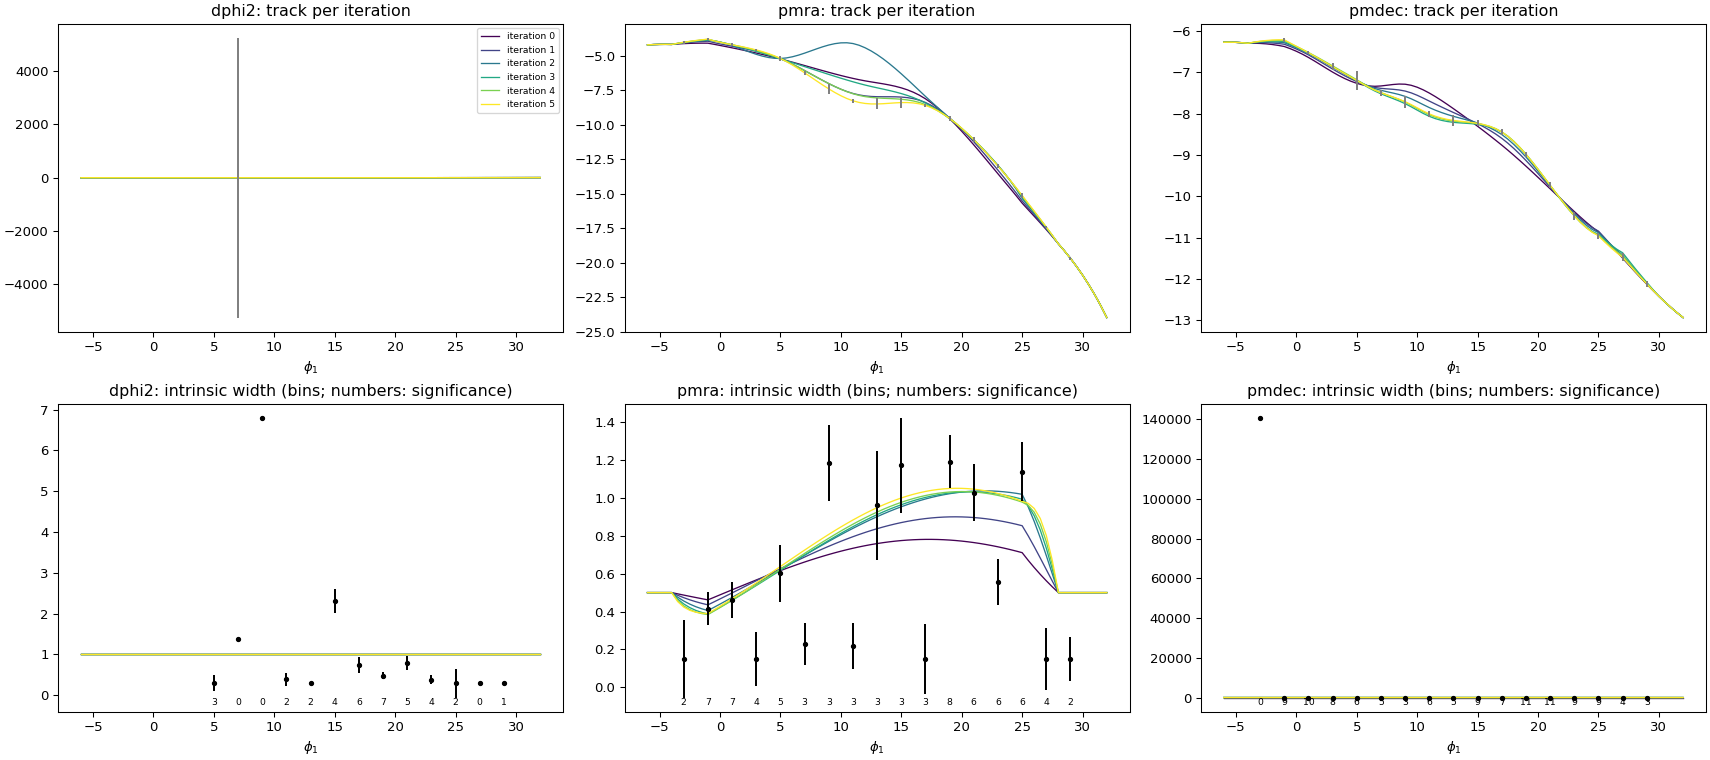
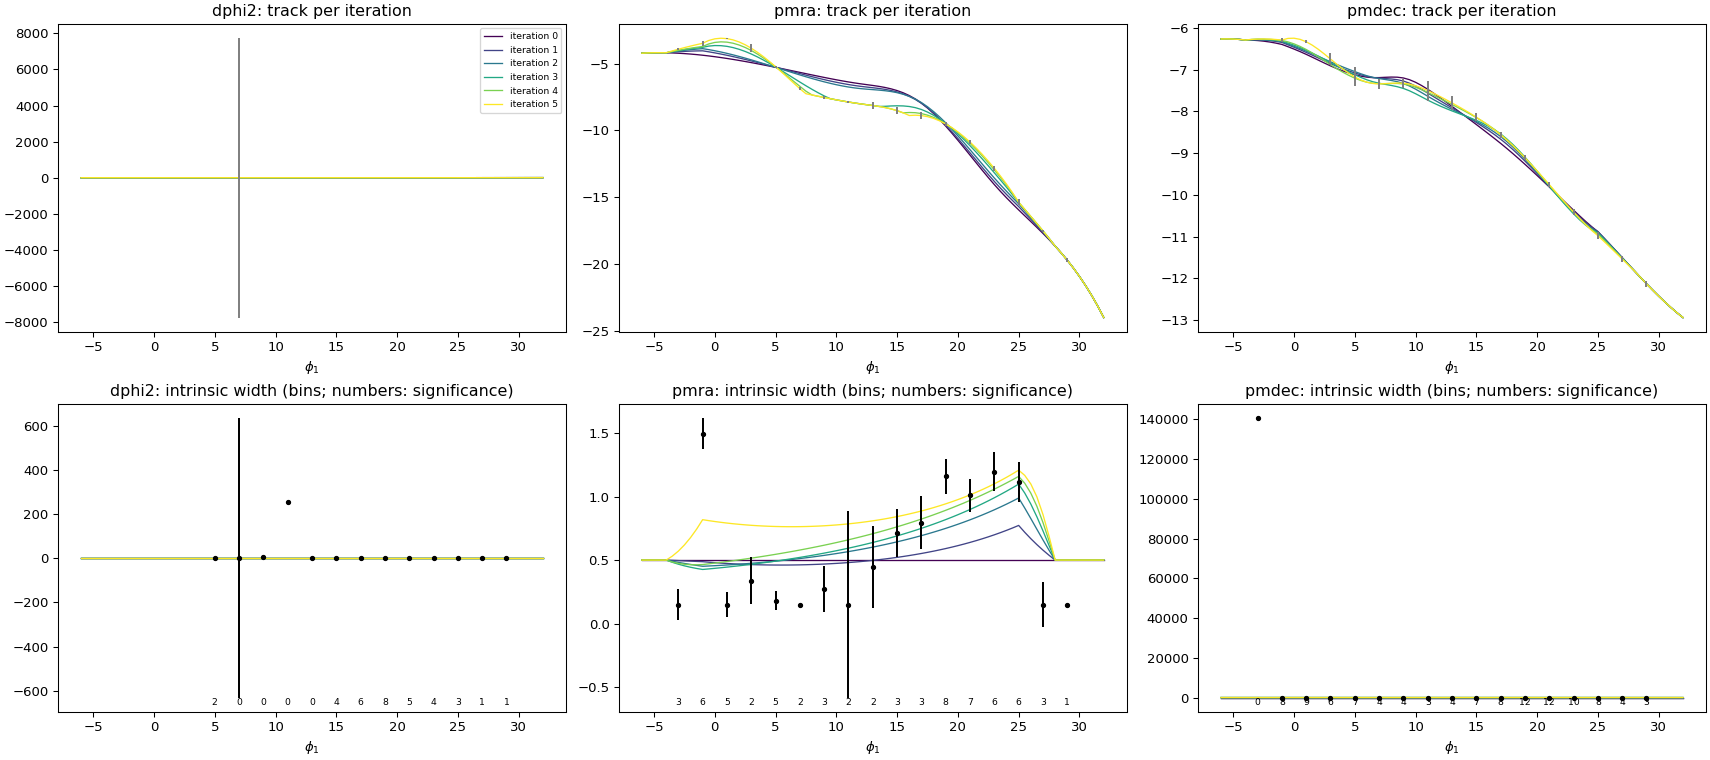
stream_masks.py: fixed +-2 deg sky window for the PM panels (centred on the marked sky track), PM backgrounds 4-14 deg off; tracks anchored to the start; borders interpolated

diff --git a/bin/streams/stream_masks.py b/bin/streams/stream_masks.py
@@ -4,8 +4,9 @@
 Procedure (docs/reviews/masks_fable_codex_20261023.md): stars = footprint (G < 20, parallax cut, GC masks) inside the isochrone CMD
 mask (bin/streams/gaia_cmd_mask.cmd_pass, k = 2). Alternating 1-D unbinned fits per phi1 bin, for q in (pmdec, pmra*, dphi2):
   - select by the OTHER two masks at k_iter = 2.5 (per-star width sqrt(s_int^2 + e_i^2));
-  - PMs: residual v = q - track_q(phi1) of stars in the sky window; background shape = histogram of the residuals of the same
-    selection in sky bands 4-12 deg off the track (upper-branch window excluded); model (1 - f) B(v) + f N(v; mu + beta (phi1 - c),
+  - PMs: residual v = q - track_q(phi1) of stars in the sky window |dphi2| < 2 (fixed, user 2026-10-23: the on-sky signal is too
+    complex for a fitted border; |dphi2| < 2 adopted 2026-10-23); background shape = residuals of the same selection at 4 < |dphi2 - centre| < 14; the window is centred on the
+    starting (user-marked) sky track, ~0 at phi1 < 20 rising to +3 at 28; model (1 - f) B(v) + f N(v; mu + beta (phi1 - c),
     s^2 + e_i^2) on |v| < 4 mas/yr;
   - sky: residual v = dphi2 - track(phi1) of stars passing both PM masks, |v| < 8 deg; model f1 N(mu1, s1) [+ f2 N(mu2, s2) for the
     upper branch at phi1 14-21] + (1 - f1 - f2) quadratic background (normalised on the window); phi1 >= 4 only (footprint edge);
@@ -18,7 +19,9 @@ quadratic in phi1 over the significant range (previous width kept outside). A GC
 all centres move by < 0.1 of their errors.
 Initial tracks: the user-marked sequences (gaia_xsel_marked.MARK); initial widths 0.5 mas/yr, 1 deg.
 Empirical (completeness) borders: after convergence, per bin the central interval holding 95 per cent of the background-subtracted
-excess in a wide window (completeness_borders), smoothed by weighted quadratics in phi1 (bins >= 4 sigma); drawn in orange and stored
+excess in a wide window (completeness_borders), 3-bin running mean, linearly interpolated in phi1 (bins >= 3 sigma);
+tracks are anchored within 1.5 / 1.0 mas/yr and 2 deg of the starting (marked) tracks (with the wide |dphi2| < 5 window the pmra
+iteration otherwise ran onto field structure at phi1 5-17); drawn in orange and stored
 as lo95 / hi95 offsets from the track (the Gaussian core underestimates the borders where the stream has wings).
 Outputs: results/plot_data/stream_masks.json (tracks and widths on a phi1 grid, per-bin fit tables, iteration history),
 plots/stream_masks_fits.png (per-bin centres/widths with errors per iteration), plots/stream_masks_xsel.png (cross-selection with the
@@ -63,10 +66,24 @@ def ev(T, q, u, key="c"):
     return np.interp(u, GRID, T[q][key])
 
 
-def other_masks(D, T, q, k):
+SKY_HALF, OFF_SKY = 2.0, (4.0, 14.0)    # user: sky selection for the other panels = |dphi2| < 2 (was 5; on-sky signal too complex for a
+                                         # fitted border); PM backgrounds from 6 < |dphi2| < 14
+
+
+def SKYC(u):
+    """centre of the fixed sky window: the starting (user-marked lower-branch) track -- ~0 at phi1 < 20, rising to +3 at phi1 28
+    where the stream bends steeply in the chord frame (members' dphi2 +1.0..+1.6 at 24-27)."""
+    return np.interp(u, GRID, SKY0)
+
+
+def other_masks(D, T, q, k, sky=True):
     u = D["phi1"]; m = np.ones(len(u), bool)
     for p, col, err in (("pmra", "pmra", "pmra_error"), ("pmdec", "pmdec", "pmdec_error"), ("dphi2", "dphi2", None)):
         if p == q:
+            continue
+        if p == "dphi2":
+            if sky:
+                m &= np.abs(D["dphi2"]-SKYC(u)) < SKY_HALF
             continue
         e2 = D[err]**2 if err else 0.
         m &= np.abs(D[col]-ev(T, p, u)) < k*np.sqrt(ev(T, p, u, "s")**2+e2)
@@ -188,7 +205,7 @@ w95 = first w with F >= frac (clipping the excess to positive values made noise 
     u, x = D["phi1"], D["dphi2"]; out = {}; Wd = dict(pmdec=4., pmra=6., dphi2=8.)
     for q in ("dphi2", "pmra", "pmdec"):
         W = Wd[q]; E = np.linspace(-W, W, int(2*W/0.1)+1); cc = 0.5*(E[1:]+E[:-1]); rows = []
-        sel = other_masks(D, T, q, K_ITER) if q == "dphi2" else other_masks(D, {**T, "dphi2": dict(c=T["dphi2"]["c"], s=np.full(GRID.size, 1e6))}, q, K_ITER)
+        sel = other_masks(D, T, q, K_ITER) if q == "dphi2" else other_masks(D, T, q, K_ITER, sky=False)
         for a0, a1 in BINS:
             c = 0.5*(a0+a1); kb = sel & (u >= a0) & (u < a1)
             vu = np.nan
@@ -199,7 +216,7 @@ w95 = first w with F >= frac (clipping the excess to positive values made noise 
                 vu = tu(np.array([c]))[0]-ev(T, q, np.array([c]))[0]; wing = (np.abs(cc) > 4) & ~(np.abs(cc-vu) < 2 if np.isfinite(vu) else False)
                 B = np.clip(np.polyval(np.polyfit(cc[wing], h[wing], 2), cc), 0, None)
             else:
-                dsky = x-ev(T, "dphi2", u); on = kb & (np.abs(dsky) < K_ITER*ev(T, "dphi2", u, "s")); off = kb & (np.abs(dsky) > 4) & (np.abs(dsky) < 12) & ~(np.abs(x-tu(u)) < 2)
+                dsky = x-ev(T, "dphi2", u); on = kb & (np.abs(x-SKYC(u)) < SKY_HALF); off = kb & (np.abs(x-SKYC(u)) > OFF_SKY[0]) & (np.abs(x-SKYC(u)) < OFF_SKY[1])
                 h = np.histogram((D[q]-ev(T, q, u))[on], E)[0].astype(float); hf = np.histogram((D[q]-ev(T, q, u))[off], E)[0].astype(float)
                 wing = np.abs(cc) > W-2; B = hf*h[wing].sum()/max(hf[wing].sum(), 1)
             fit = [r for r in TAB[q] if abs(r["c"]-c) < 0.1]
@@ -220,23 +237,23 @@ w95 = first w with F >= frac (clipping the excess to positive values made noise 
 
 
 def main():
-    D, T, up = load_data(); u, x = D["phi1"], D["dphi2"]
+    D, T, up = load_data(); u, x = D["phi1"], D["dphi2"]; global SKY0; SKY0 = T["dphi2"]["c"].copy()
     print(f"{len(u)} stars in the CMD mask", flush=True)
     tu = lambda p: np.interp(p, up[:, 0], up[:, 1], left=np.nan, right=np.nan)
-    hist, tables = [], {}
+    hist, tables = [], {}; T0 = {q: T[q]["c"].copy() for q in T}; ANCHOR = dict(pmra=1.5, pmdec=1.0, dphi2=2.0)   # max departure from the start
     for it in range(NIT):
         moved = []
         for q in ("pmdec", "pmra", "dphi2"):
             if q == "dphi2":
                 sel = other_masks(D, T, q, K_ITER)
             else:                                                     # PM fits: other-PM mask only; the sky window/off bands are applied below
-                sel = other_masks(D, {**T, "dphi2": dict(c=T["dphi2"]["c"], s=np.full(GRID.size, 1e6))}, q, K_ITER)
+                sel = other_masks(D, T, q, K_ITER, sky=False)
             rows = []
             for a0, a1 in BINS:
                 c = 0.5*(a0+a1); kb = sel & (u >= a0) & (u < a1)
                 if q in ("pmra", "pmdec"):
-                    dsky = x-ev(T, "dphi2", u); w_on = np.abs(dsky) < K_ITER*ev(T, "dphi2", u, "s")
-                    offb = (np.abs(dsky) > 4) & (np.abs(dsky) < 12) & ~(np.abs(x-tu(u)) < 2)
+                    w_on = np.abs(x-SKYC(u)) < SKY_HALF
+                    offb = (np.abs(x-SKYC(u)) > OFF_SKY[0]) & (np.abs(x-SKYC(u)) < OFF_SKY[1])
                     v = D[q]-ev(T, q, u); e = D[q+"_error"]
                     r = fit_pm(v[kb & w_on], e[kb & w_on], u[kb & w_on]-c, v[kb & offb])
                 else:
@@ -252,7 +269,7 @@ def main():
             ok = (sig >= SIG_MIN) & np.isfinite(me) & (me > 0) & np.isfinite(se) & (ss > 1.05*FLOOR[q]) & (ss < CAP[q]) & (np.abs(mu) < 1.5*np.maximum(cur_s, 0.5))
             sm = smooth_offset(cs, mu, me, ok); sw = smooth_logwidth(cs, np.log(ss), se/np.maximum(ss, 1e-3), ok, T[q]["s"])
             if sm is not None:
-                T[q]["c"] = T[q]["c"]+DAMP*sm[0](GRID); moved.append(np.max(np.abs(mu[ok])/np.maximum(me[ok], 1e-3)))
+                T[q]["c"] = np.clip(T[q]["c"]+DAMP*sm[0](GRID), T0[q]-ANCHOR[q], T0[q]+ANCHOR[q]); moved.append(np.max(np.abs(mu[ok])/np.maximum(me[ok], 1e-3)))
             if sw is not None:
                 T[q]["s"] = np.clip(np.exp(DAMP*np.log(np.maximum(sw(GRID), 1e-3))+(1-DAMP)*np.log(T[q]["s"])), FLOOR[q], CAP[q])
             T[q]["range"] = sm[1] if sm is not None else None
@@ -267,10 +284,10 @@ def main():
         mid = np.array([r["mid"] for r in rows]); lo = np.array([r["lo"] for r in rows]); hi = np.array([r["hi"] for r in rows])
         T[q]["c_emp"], T[q]["lo_emp"], T[q]["hi_emp"] = T[q]["c"].copy(), np.full(GRID.size, np.nan), np.full(GRID.size, np.nan)
         if okb.sum() >= 4:
-            dg = 1 if q == "dphi2" else 2                                 # sky: few bins -> linear (a quadratic pinched the border)
-            pl = np.polyfit(cs[okb], lo[okb], dg, w=np.sqrt(sig[okb])); ph = np.polyfit(cs[okb], hi[okb], dg, w=np.sqrt(sig[okb]))
-            a_, b_ = cs[okb].min(), cs[okb].max(); g = np.clip(GRID, a_, b_)
-            T[q]["lo_emp"] = np.where((GRID >= a_-1) & (GRID <= b_+2), np.polyval(pl, g), np.nan); T[q]["hi_emp"] = np.where((GRID >= a_-1) & (GRID <= b_+2), np.polyval(ph, g), np.nan)
+            xs, l_, h_ = cs[okb], lo[okb], hi[okb]
+            sm3 = lambda y: np.convolve(np.pad(y, 1, mode="edge"), np.ones(3)/3, mode="valid") if len(y) >= 3 else y
+            l_, h_ = sm3(l_), sm3(h_); a_, b_ = xs.min(), xs.max(); g = np.clip(GRID, a_, b_)
+            T[q]["lo_emp"] = np.where((GRID >= a_-1) & (GRID <= b_+2), np.interp(g, xs, l_), np.nan); T[q]["hi_emp"] = np.where((GRID >= a_-1) & (GRID <= b_+2), np.interp(g, xs, h_), np.nan)
         print(f"{q} 95% borders: " + " ".join(f"[{r['c']:.0f}: {r['lo']:+.2f}..{r['hi']:+.2f} N{r['N']:.0f} {r['sig']:.0f}s]" for r in rows), flush=True)
     out = dict(grid=GRID.tolist(), tracks={q: dict(c=T[q]["c"].tolist(), s=T[q]["s"].tolist(), range=T[q]["range"],
                                                   lo95=np.nan_to_num(T[q]["lo_emp"], nan=-99).tolist(), hi95=np.nan_to_num(T[q]["hi_emp"], nan=99).tolist()) for q in T},
@@ -307,14 +324,17 @@ def main():
                 if off.sum() > 10:
                     B[jj] = np.clip(np.polyval(np.polyfit(cy[off], H[jj, off], 2), cy), 0, None)
         else:
-            dsky = x-ev(T, "dphi2", u); onS = np.abs(dsky) < K_FINAL*ev(T, "dphi2", u, "s"); offS = (np.abs(dsky) > 4) & (np.abs(dsky) < 12) & ~(np.abs(x-tu(u)) < 2)
+            dsky = x-ev(T, "dphi2", u); onS = np.abs(x-SKYC(u)) < SKY_HALF; offS = (np.abs(x-SKYC(u)) > OFF_SKY[0]) & (np.abs(x-SKYC(u)) < OFF_SKY[1])
             sel2 = other_masks(D, T, q, K_FINAL) | True
-            selp = other_masks(D, {**T, "dphi2": dict(c=T["dphi2"]["c"], s=np.full(GRID.size, 1e6))}, q, K_FINAL)
+            selp = other_masks(D, T, q, K_FINAL, sky=False)
             H = np.histogram2d(u[selp & onS], v[selp & onS], (E1, Ey))[0]; Hf = np.histogram2d(u[selp & offS], v[selp & offS], (E1, Ey))[0]
             nn = np.histogram(u[onS], E1)[0]; nf = np.histogram(u[offS], E1)[0]; B = Hf*np.divide(nn, nf, out=np.zeros(len(c1)), where=nf > 0)[:, None]
         e = (E1[0], E1[-1], Ey[0], Ey[-1])
         ax[i, 0].imshow(gaussian_filter((H-B)/np.sqrt(np.maximum(B, 1)), 1.).T, origin="lower", extent=e, aspect="auto", cmap="RdBu_r", vmin=-4, vmax=4)
         wt = np.median(D[err]) if err else 0.
+        if q == "dphi2":
+            for a_ in ax[i]:
+                a_.plot(ph, SKYC(ph)+SKY_HALF, "k--", lw=0.8); a_.plot(ph, SKYC(ph)-SKY_HALF, "k--", lw=0.8)
         for a_ in ax[i]:
             a_.fill_between(ph, ev(T, q, ph)-K_FINAL*np.sqrt(ev(T, q, ph, "s")**2+wt**2), ev(T, q, ph)+K_FINAL*np.sqrt(ev(T, q, ph, "s")**2+wt**2),
                             color="C0", alpha=0.15 if a_ is ax[i, 0] else 0.3, lw=0)
